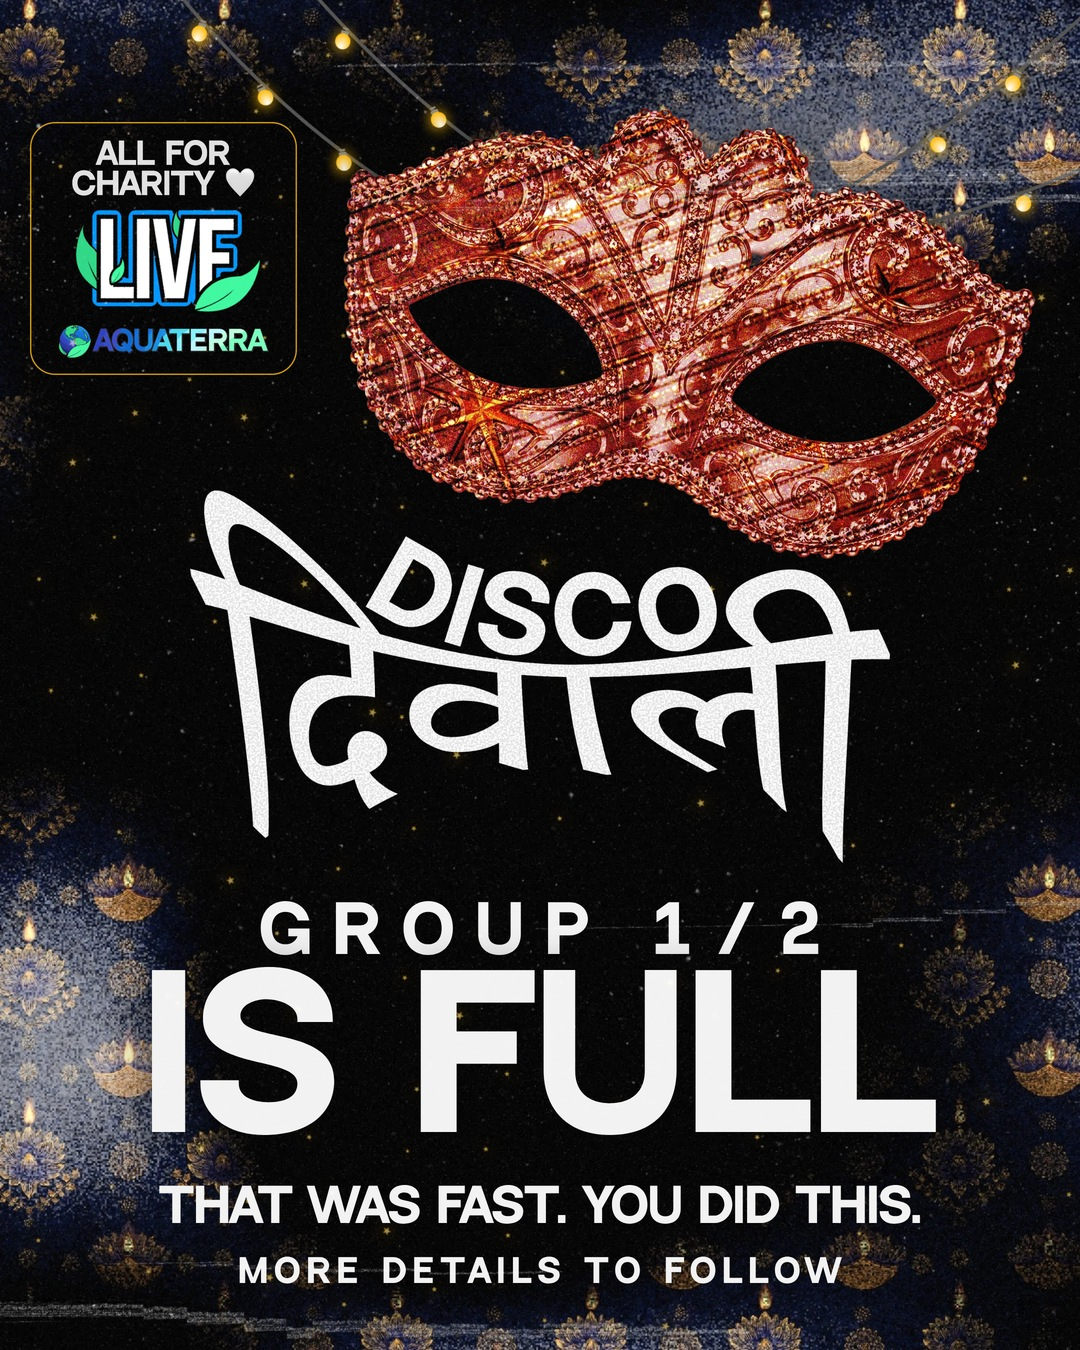
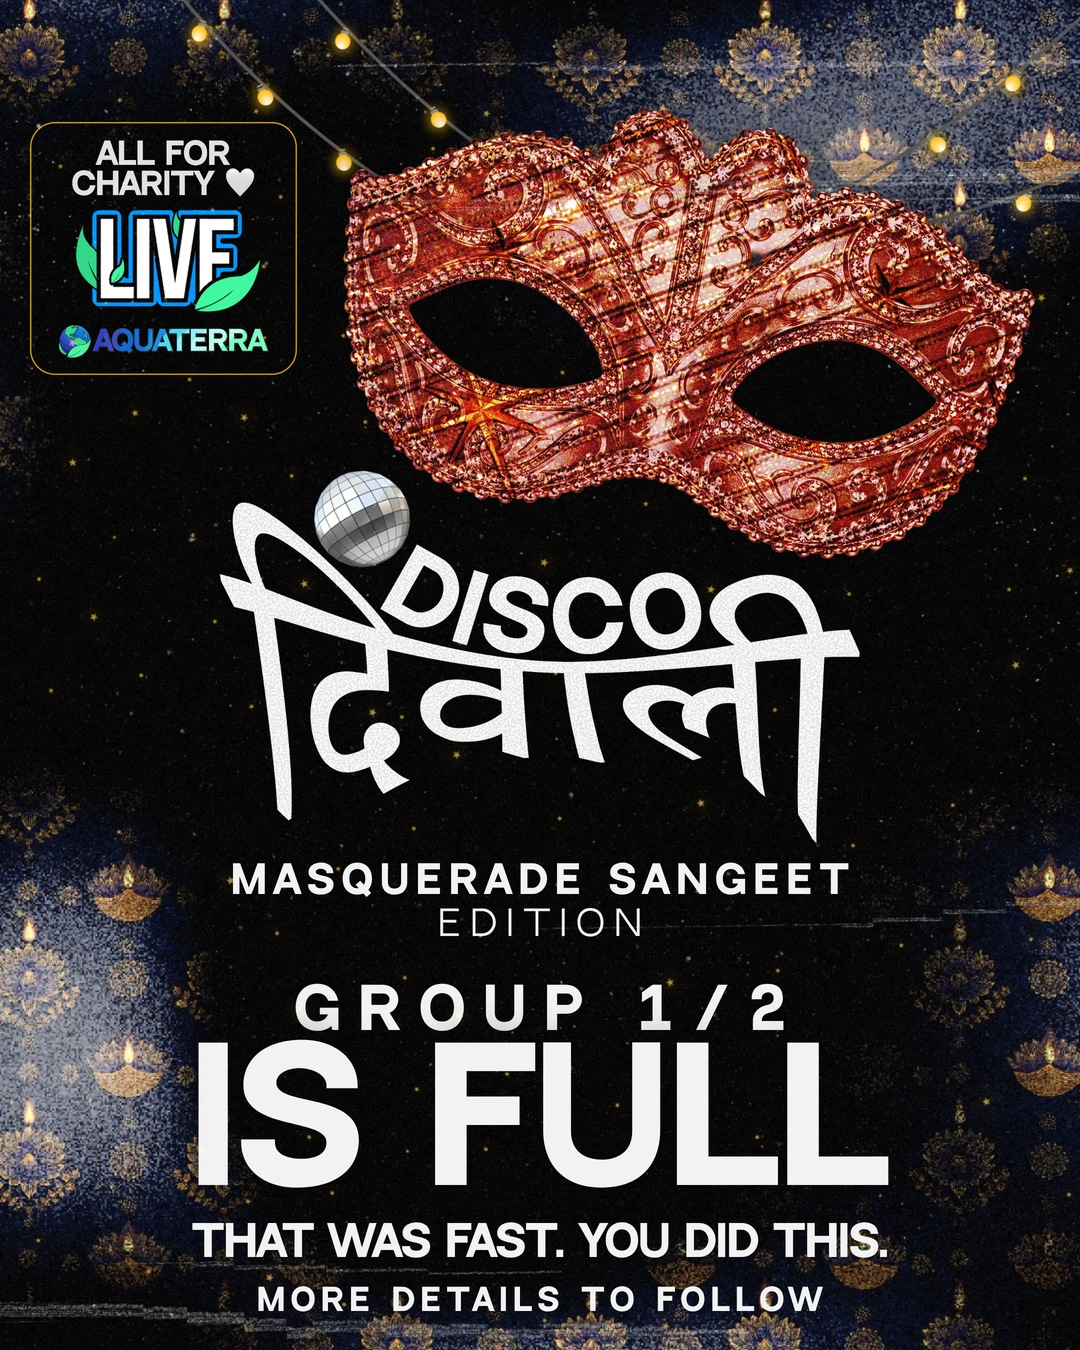
Disco Diwali group-full poster: disco ball on the lockup, MASQUERADE SANGEET EDITION line
Claude-Session: https://claude.ai/code/session_01HW9NLUoNVqWbubcRN9wD4m

Changed region(s): [[0.1222, 0.3422, 0.8861, 0.9956]]

diff --git a/scratchpad/dd_group_full_poster.py b/scratchpad/dd_group_full_poster.py
@@ -30,25 +30,28 @@ async def main():
     p.img("mask_copper.png", round(343 - 157 * k), round(108 - 211 * k), round(1680 * k), z=6, tag="mask", extra="filter:drop-shadow(0 8px 26px rgba(0,0,0,.6));")
     p.box("mask", 343, 108, 692, 452)
     p.img("live_badge.png", 30, 122, 267, z=8, tag="badge"); p.box("badge", 30, 122, 267, 248)
-    # the ball-free lockup, smaller than poster_ref's 1036px so the news below can be the hero: visible 700 wide
-    x0, y0, x1, y1 = 265, 401, 1983, 1315
-    w = 700; t = w / (x1 - x0); vh = round((y1 - y0) * t); vx, vy = (W - w) // 2, 490
-    p.img("title_lockup_noball.png", round(vx - x0 * t), round(vy - y0 * t), round(2000 * t), z=9, tag="title")
+    # the lockup WITH its disco ball (user, 2026-10-19), visible 640 wide, then the edition lines, then the news
+    x0, y0, x1, y1 = 265, 315, 1983, 1315
+    w = 640; t = w / (x1 - x0); vh = round((y1 - y0) * t); vx, vy = (W - w) // 2, 470
+    p.img("title_lockup.png", round(vx - x0 * t), round(vy - y0 * t), round(2000 * t), z=9, tag="title")
     p.box("title", vx, vy, w, vh)
-    cy = vy + vh + 70                                           # first text line, clear of the lockup
-    p.raw("g1", "GROUP 1/2", W // 2, cy, 520, 64, "font-family:var(--d);font-weight:700;font-size:64px;letter-spacing:.34em;text-indent:.34em;text-transform:uppercase")
-    p.raw("full", "IS FULL", W // 2, cy + 130, 900, 190,
-          f"font-family:var(--d);font-weight:900;font-size:200px;letter-spacing:.01em;text-transform:uppercase;color:{OFFWHITE};filter:drop-shadow(0 4px 22px rgba(0,0,0,.6))")
-    p.raw("fast", "THAT WAS FAST. YOU DID THIS.", W // 2, cy + 275, 900, 48, "font-family:var(--d);font-weight:700;font-size:46px;text-transform:uppercase")
-    p.raw("more", "MORE DETAILS TO FOLLOW", W // 2, cy + 340, 600, 38, f"font-family:var(--d);font-weight:700;font-size:32px;letter-spacing:.2em;text-indent:.2em;color:{OFFWHITE};text-transform:uppercase")
+    ey = vy + vh + 38                                           # "MASQUERADE SANGEET" / "EDITION", centred under the lockup
+    p.raw("sub1", "MASQUERADE SANGEET", W // 2, ey, 640, 40, "font-family:var(--d);font-weight:700;font-size:38px;letter-spacing:.2em;text-indent:.2em;text-transform:uppercase")
+    p.raw("sub2", "EDITION", W // 2, ey + 44, 300, 36, "font-family:var(--d);font-weight:400;font-size:34px;letter-spacing:.3em;text-indent:.3em;text-transform:uppercase")
+    cy = ey + 130
+    p.raw("g1", "GROUP 1/2", W // 2, cy, 520, 56, "font-family:var(--d);font-weight:700;font-size:56px;letter-spacing:.34em;text-indent:.34em;text-transform:uppercase")
+    p.raw("full", "IS FULL", W // 2, cy + 112, 800, 170,
+          f"font-family:var(--d);font-weight:900;font-size:176px;letter-spacing:.01em;text-transform:uppercase;color:{OFFWHITE};filter:drop-shadow(0 4px 22px rgba(0,0,0,.6))")
+    p.raw("fast", "THAT WAS FAST. YOU DID THIS.", W // 2, cy + 232, 900, 44, "font-family:var(--d);font-weight:700;font-size:42px;text-transform:uppercase")
+    p.raw("more", "MORE DETAILS TO FOLLOW", W // 2, cy + 290, 600, 34, f"font-family:var(--d);font-weight:700;font-size:30px;letter-spacing:.2em;text-indent:.2em;color:{OFFWHITE};text-transform:uppercase")
     p.overlays()
     html = B.page(W, H, GROUND, "".join(P), grain=False)
     html = p.neutralise(html)
     os.makedirs(os.path.dirname(OUT), exist_ok=True)
     labels = {e[0] for e in p.elements}
-    ign = [pr for pr in [("title", "mask"), ("mask", "badge"), ("lights", "mask"), ("title", "badge")] if pr[0] in labels and pr[1] in labels]
+    ign = [pr for pr in [("title", "mask"), ("mask", "badge"), ("lights", "mask"), ("title", "badge"), ("title", "sub1"), ("title", "sub2"), ("sub1", "sub2")] if pr[0] in labels and pr[1] in labels]
     async with B.session():
-        await B.render(html, OUT, W, H, elements=p.elements, collision_ignore=ign, text_pairs=[("g1", OFFWHITE, GROUND, 64, True), ("fast", OFFWHITE, GROUND, 46, True)],
+        await B.render(html, OUT, W, H, elements=p.elements, collision_ignore=ign, text_pairs=[("g1", OFFWHITE, GROUND, 56, True), ("fast", OFFWHITE, GROUND, 42, True)],
                        bleed_tags=("mask", "title", "lights", "plate", "sparkles", "grain"), crop_tags=("plate", "sparkles", "grain"), page_bg=GROUND)
     print("group-full poster done ->", OUT)
 
